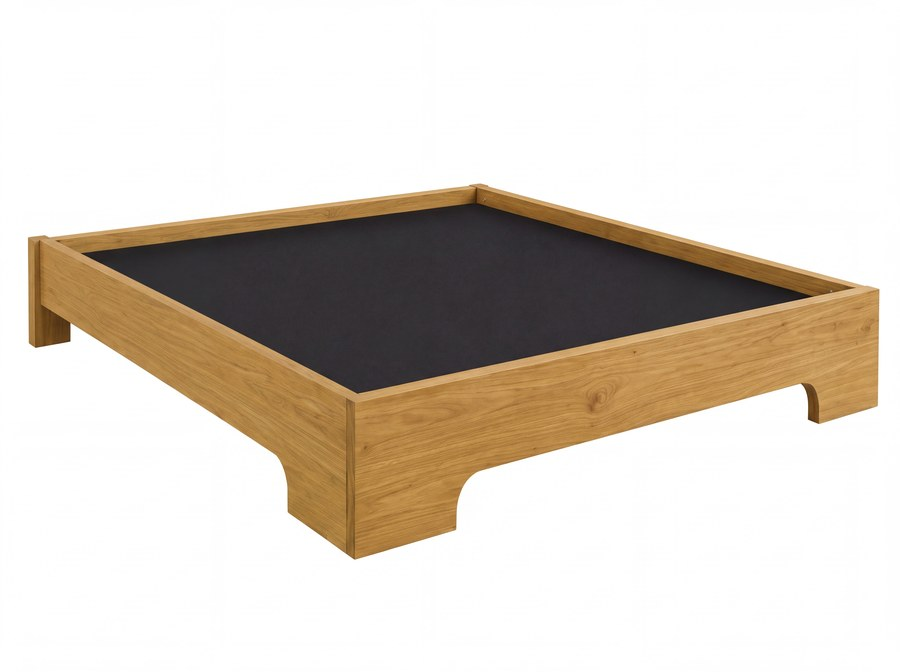
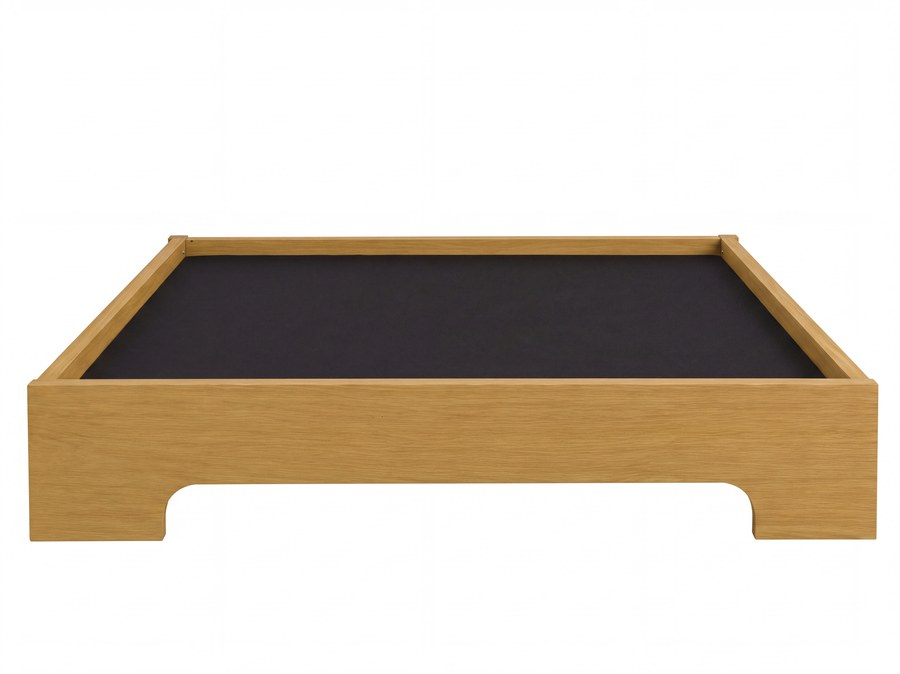
Fix: Zoom en linea recta pura con cero rotaciones ni desviaciones de camara

Changed region(s): [[0.0311, 0.25, 0.9956, 0.8438]]

diff --git a/modelos_glb_data.js b/modelos_glb_data.js
@@ -894,17 +894,17 @@ window.CATALOGO_PRODUCTOS = [
     "variant": "Distraction Natural",
     "category": "Recámaras",
     "glb": "CAMA AMAERETO.GLB",
-    "sku": "ARMAMA2PDERDN",
+    "sku": "ARMCAMAMAKS",
     "proveedor": "ARMONY",
     "dim_m": [
-      2.02,
-      1.08,
-      0.91
+      2.0,
+      2.15,
+      1.15
     ],
     "dim_cm": [
-      202,
-      108,
-      91
+      200,
+      215,
+      115
     ],
     "stock": {
       "cedis": 0,
